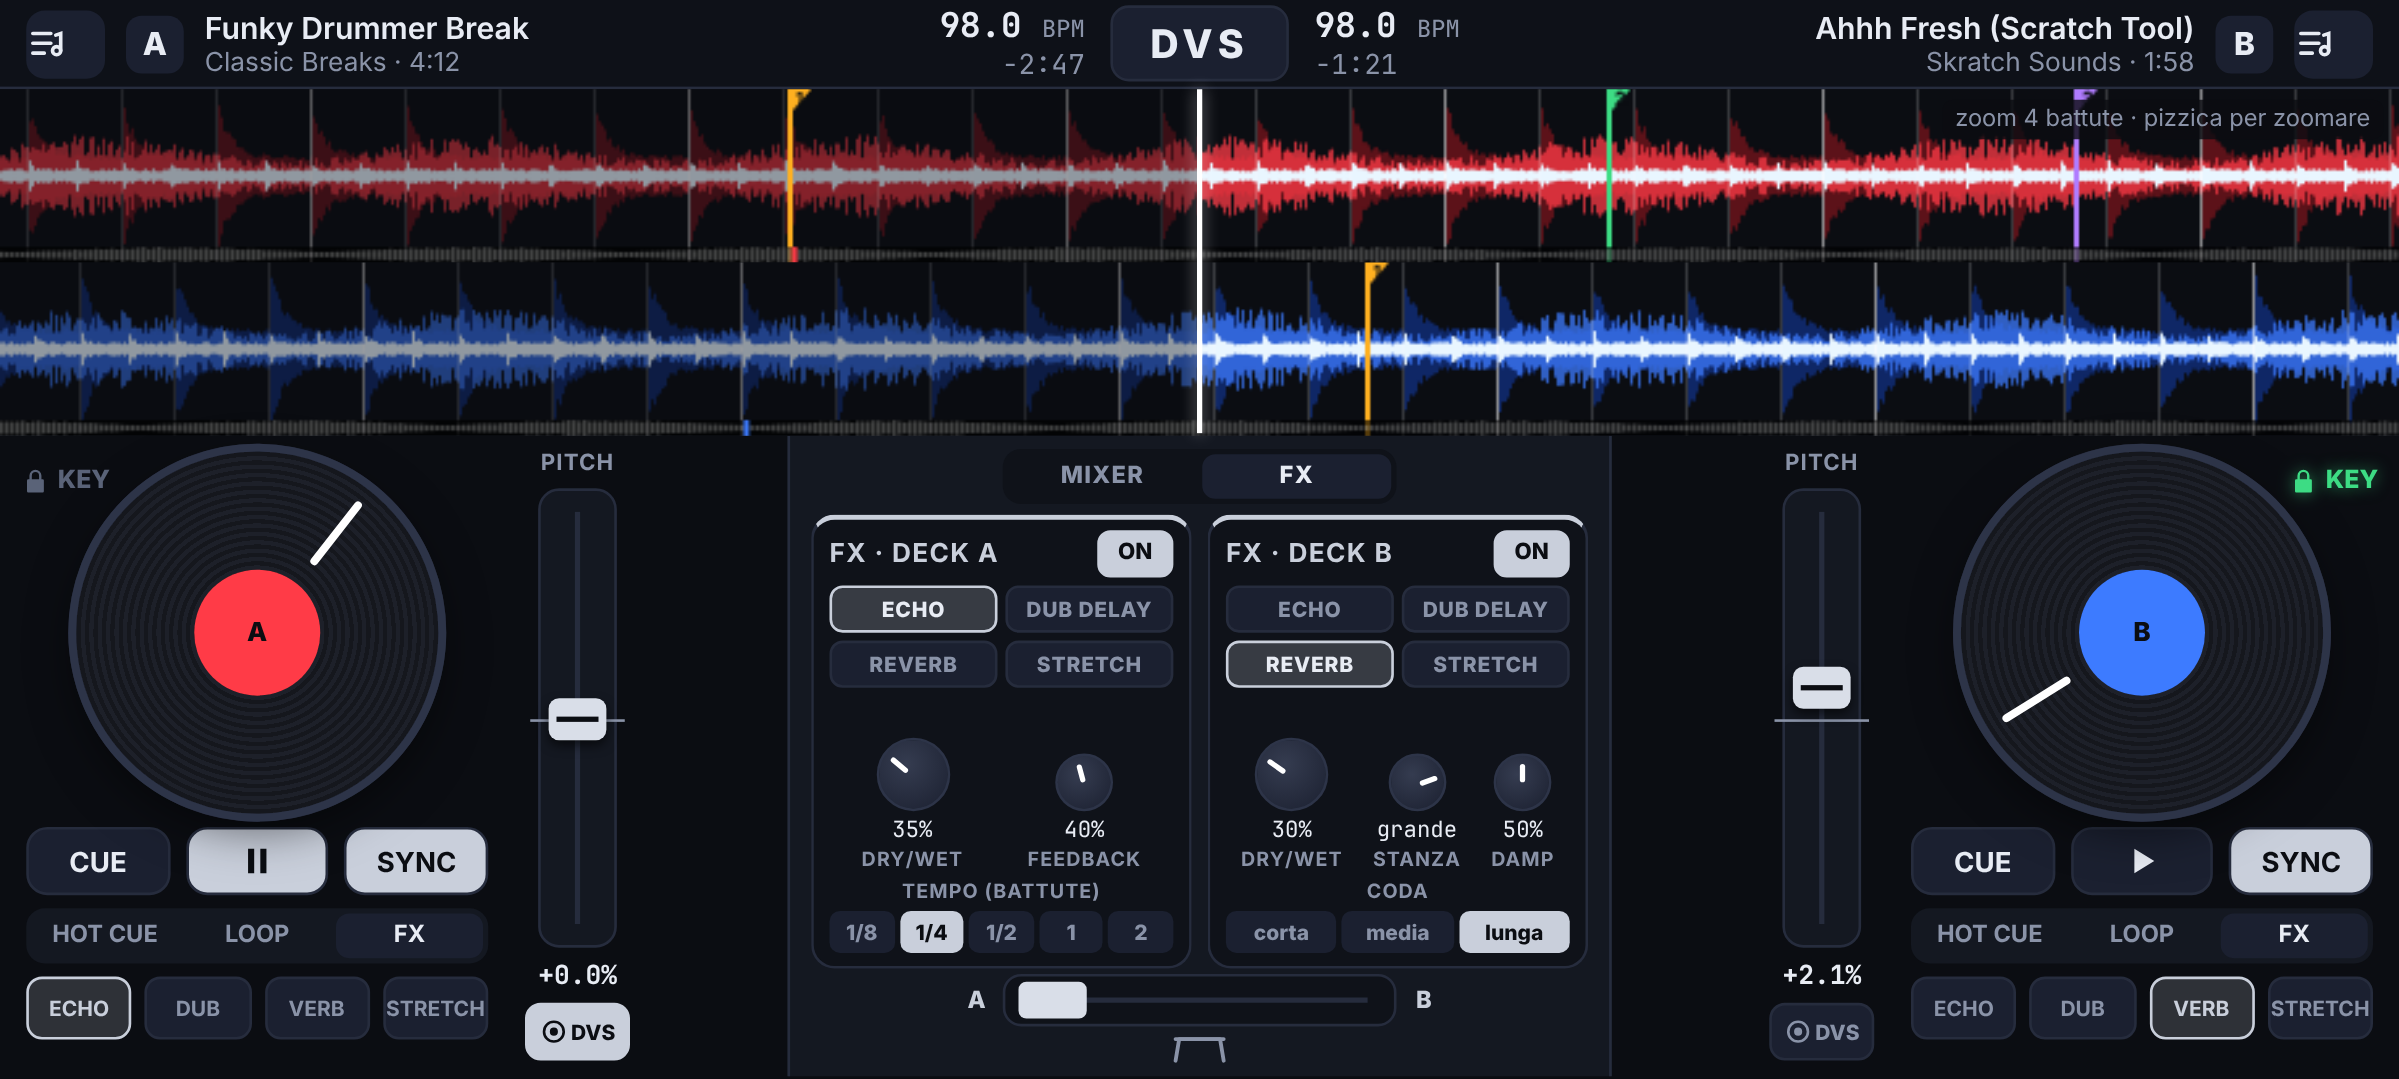
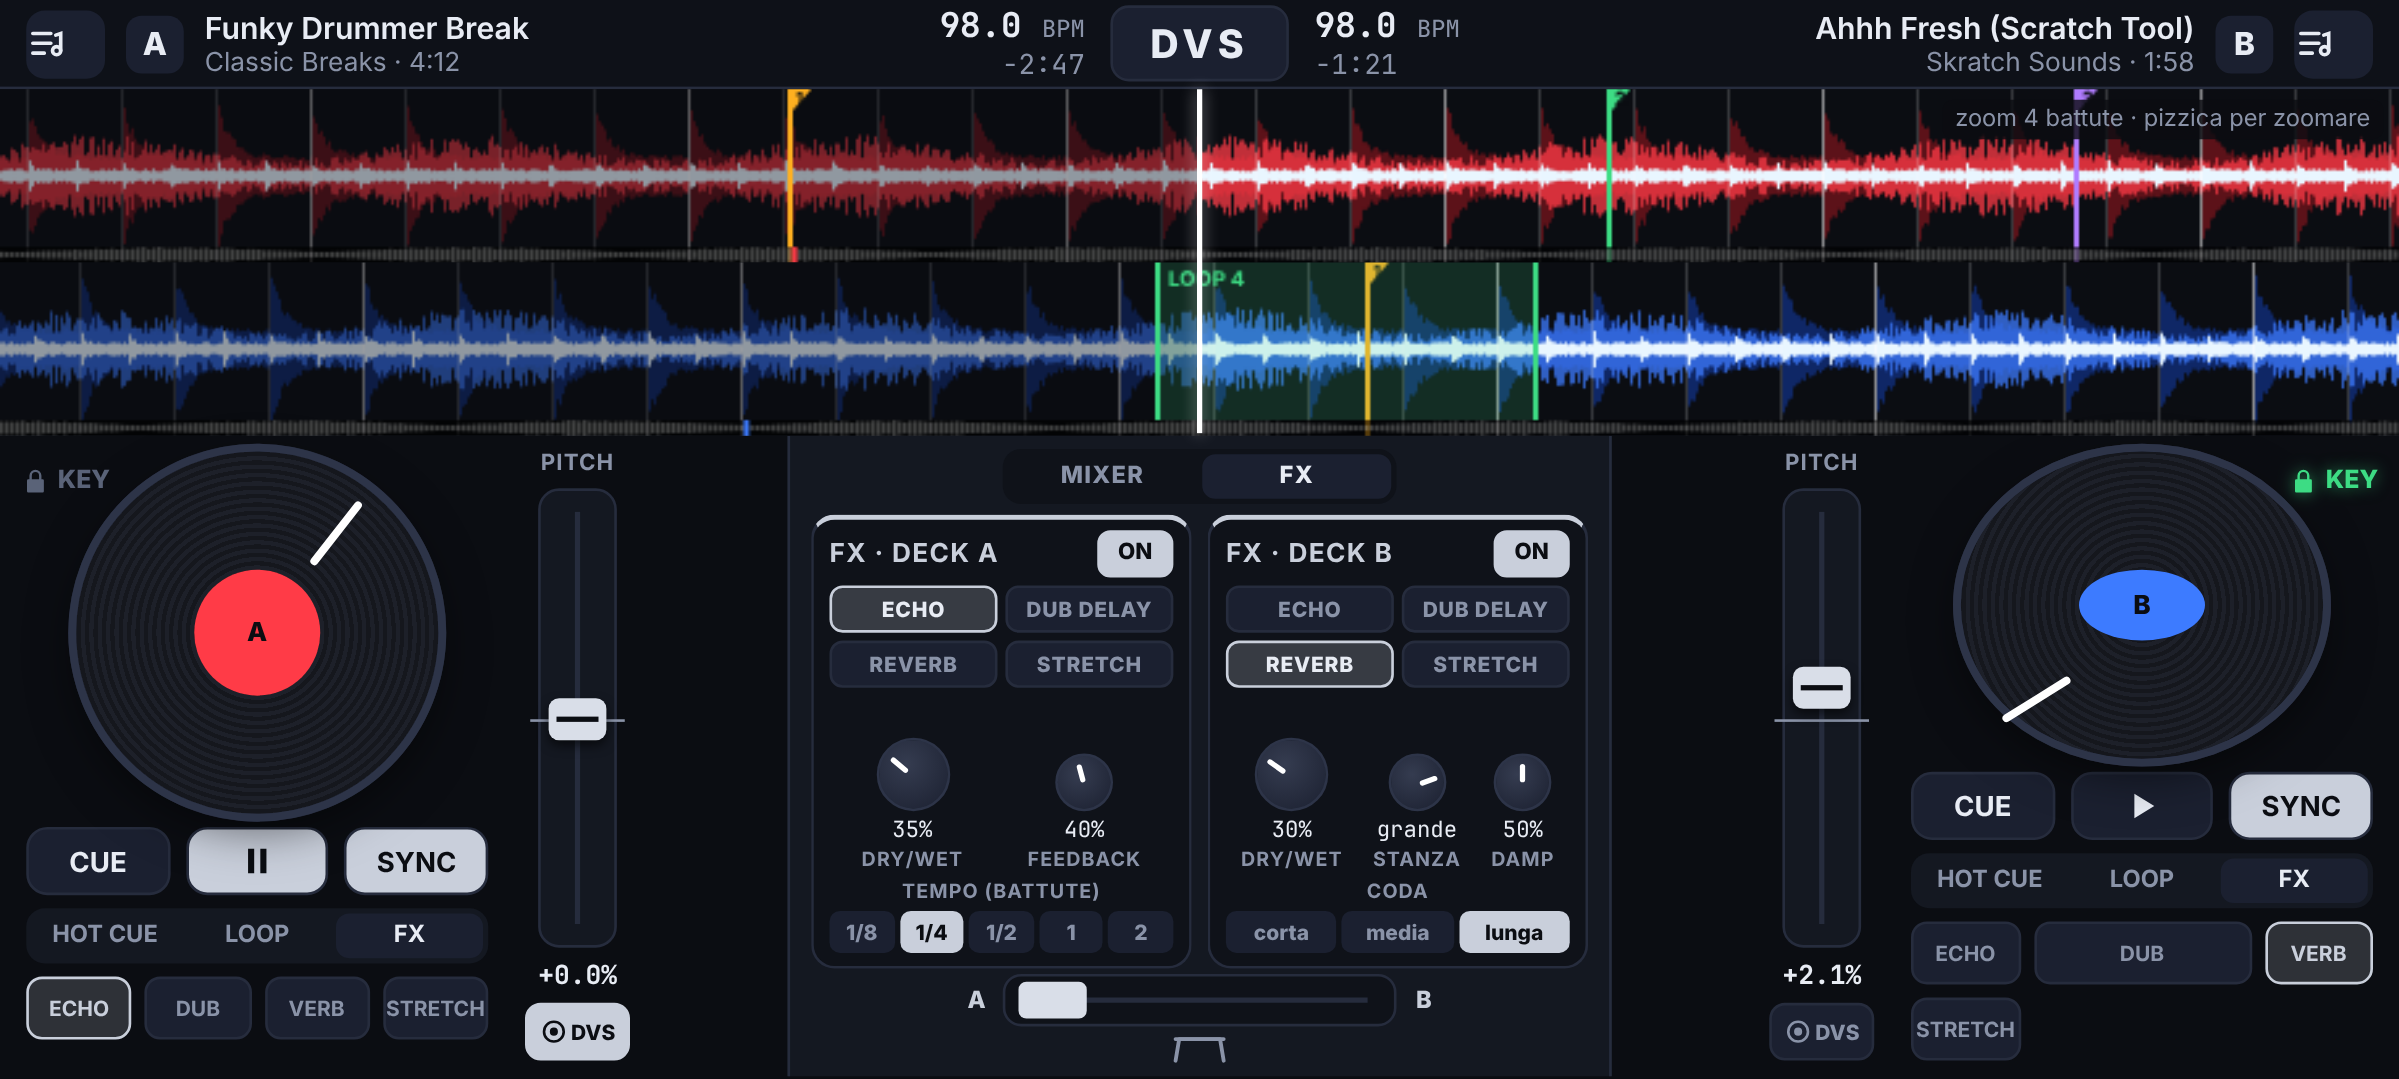
Bozze: loop con selettore di lunghezza a frecce (1/8…32 battute)
Claude-Session: https://claude.ai/code/session_01Q6837TbCDCCjM1wxVviTqv

diff --git a/design/bozze.html b/design/bozze.html
@@ -243,6 +243,15 @@ html,body{width:914px;height:411px;overflow:hidden;background:var(--bg);color:va
 .lrn{outline:1.5px dashed #3ddc84aa;outline-offset:2px;border-radius:6px}
 .lrnsel{outline:2px solid #3ddc84;outline-offset:3px;border-radius:6px;box-shadow:0 0 12px #3ddc8466}
 .lrntag{position:absolute;font-size:8px;font-weight:800;background:#3ddc84;color:#0b0d12;padding:1px 4px;border-radius:4px;z-index:21}
+
+.pads.lsel{grid-template-columns:1fr 2fr 1fr}
+.pad.la svg{width:12px;height:12px}
+.pad.la{color:var(--txt)}
+.pad.lon,.pad.loff{display:flex;align-items:baseline;justify-content:center;gap:5px}
+.lv{font-family:'JetBrains Mono';font-size:13px;font-weight:800}
+.lu{font-size:7.5px;letter-spacing:.6px}
+.pad.lon{color:var(--ok);border-color:#3ddc84;background:#3ddc8418;box-shadow:0 0 8px #3ddc8433 inset}
+.pad.loff{color:var(--txt)}
 </style>
 </head>
 <body>
@@ -313,7 +322,7 @@ html,body{width:914px;height:411px;overflow:hidden;background:var(--bg);color:va
         <div class="platter"><div class="ring" style="border-color:#2d3448"></div><div class="mk" style="transform:rotate(-122deg)"></div><div class="lab" style="background:var(--db)">B</div></div>
         <div class="tr"><div class="btn">CUE</div><div class="btn play"><svg viewBox="0 0 24 24" fill="currentColor"><path d="M7 4l13 8-13 8z"/></svg></div><div class="btn on" style="background:var(--b)">SYNC</div></div>
         <div class="tabs"><div class="tab">HOT CUE</div><div class="tab on">LOOP</div><div class="tab">FX</div></div>
-        <div class="pads"><div class="pad">1/2</div><div class="pad">1</div><div class="pad" style="background:#c9cfdb22;color:var(--txt);border-color:#c9cfdb">2</div><div class="pad">4</div></div>
+        <div class="pads lsel"><div class="pad la"><svg viewBox="0 0 24 24" fill="currentColor"><path d="M15 5l-8 7 8 7z"/></svg></div><div class="pad lon"><span class="lv">4</span><span class="lu">BATTUTE</span></div><div class="pad la"><svg viewBox="0 0 24 24" fill="currentColor"><path d="M9 5l8 7-8 7z"/></svg></div></div>
       </div>
       <div class="pitch"><div class="lbl">PITCH</div><div class="vslider"><div class="mid"></div><div class="cap" style="top:calc(50% - 20px)"></div></div><div class="pv">+2.1%</div><div class="klock"><svg viewBox="0 0 24 24" fill="none" stroke="currentColor" stroke-width="2.4"><circle cx="12" cy="12" r="9"/><circle cx="12" cy="12" r="2.5" fill="currentColor"/></svg>DVS</div></div>
     </div>
@@ -415,6 +424,7 @@ function wave(id,seed,accent,cues,lowc){
 }
 wave('wa',3,'#ff3b47',[[300,'#ffb020','1'],[612,'#3ddc84','2'],[790,'#b07cff','3']],'#5c1219');
 wave('wb',8,'#3d7bff',[[520,'#ffb020','1']],'#0f2766');
+(function(){const x=document.getElementById('wb').getContext('2d');const s=440,e=440+36*4;x.fillStyle='rgba(61,220,132,0.16)';x.fillRect(s,0,e-s,60);x.fillStyle='#3ddc84';x.fillRect(s,0,2,60);x.fillRect(e,0,2,60);x.font='bold 8px Inter';x.fillText('LOOP 4',s+5,9);})();
 
 const tracks=[
  ['Funky Drummer Break','Classic Breaks','98.0','4:12','MP3','#25c4ff',1],

diff --git a/CLAUDE.md b/CLAUDE.md
@@ -35,6 +35,9 @@ L'app si chiama **DVS** (27/10/2026; prima "Djaaay"). Nel codice il package Kotl
   Al centro il nome **DVS**: toccandolo si aprono le **Opzioni** (nessun pulsante ingranaggio).
 - **Waveform alte** (2 strisce, A sopra B), puntina fissa al centro, griglia battute, bandierine hot cue,
   panoramica traccia sotto; pinch = zoom, trascinare = scratch (disattivabile).
+- **LOOP** (tab dei pad): selettore **◀ [ N BATTUTE ] ▶**; le frecce dimezzano/raddoppiano 1/8…32 battute, il tasto centrale
+  accende/spegne il loop da dove si è (allineato alla battuta); cambiare N con loop acceso lo accorcia/allunga subito.
+  Loop acceso = tasto verde; sulla waveform la zona del loop è velata di verde con i bordi.
 - Deck: disco touch (scratch), CUE / Play / SYNC, pad con tab HOT CUE · LOOP · FX; pitch verticale con valore
   e tasto **DVS** (l'escursione ±8/16/50 si sceglie solo nelle Opzioni). Tasto **KEY** (keylock) in alto a sinistra del disco A e in alto a destra del disco B:
   senza riquadro, scritta+lucchetto grigi da spento, verdi illuminati da acceso.
